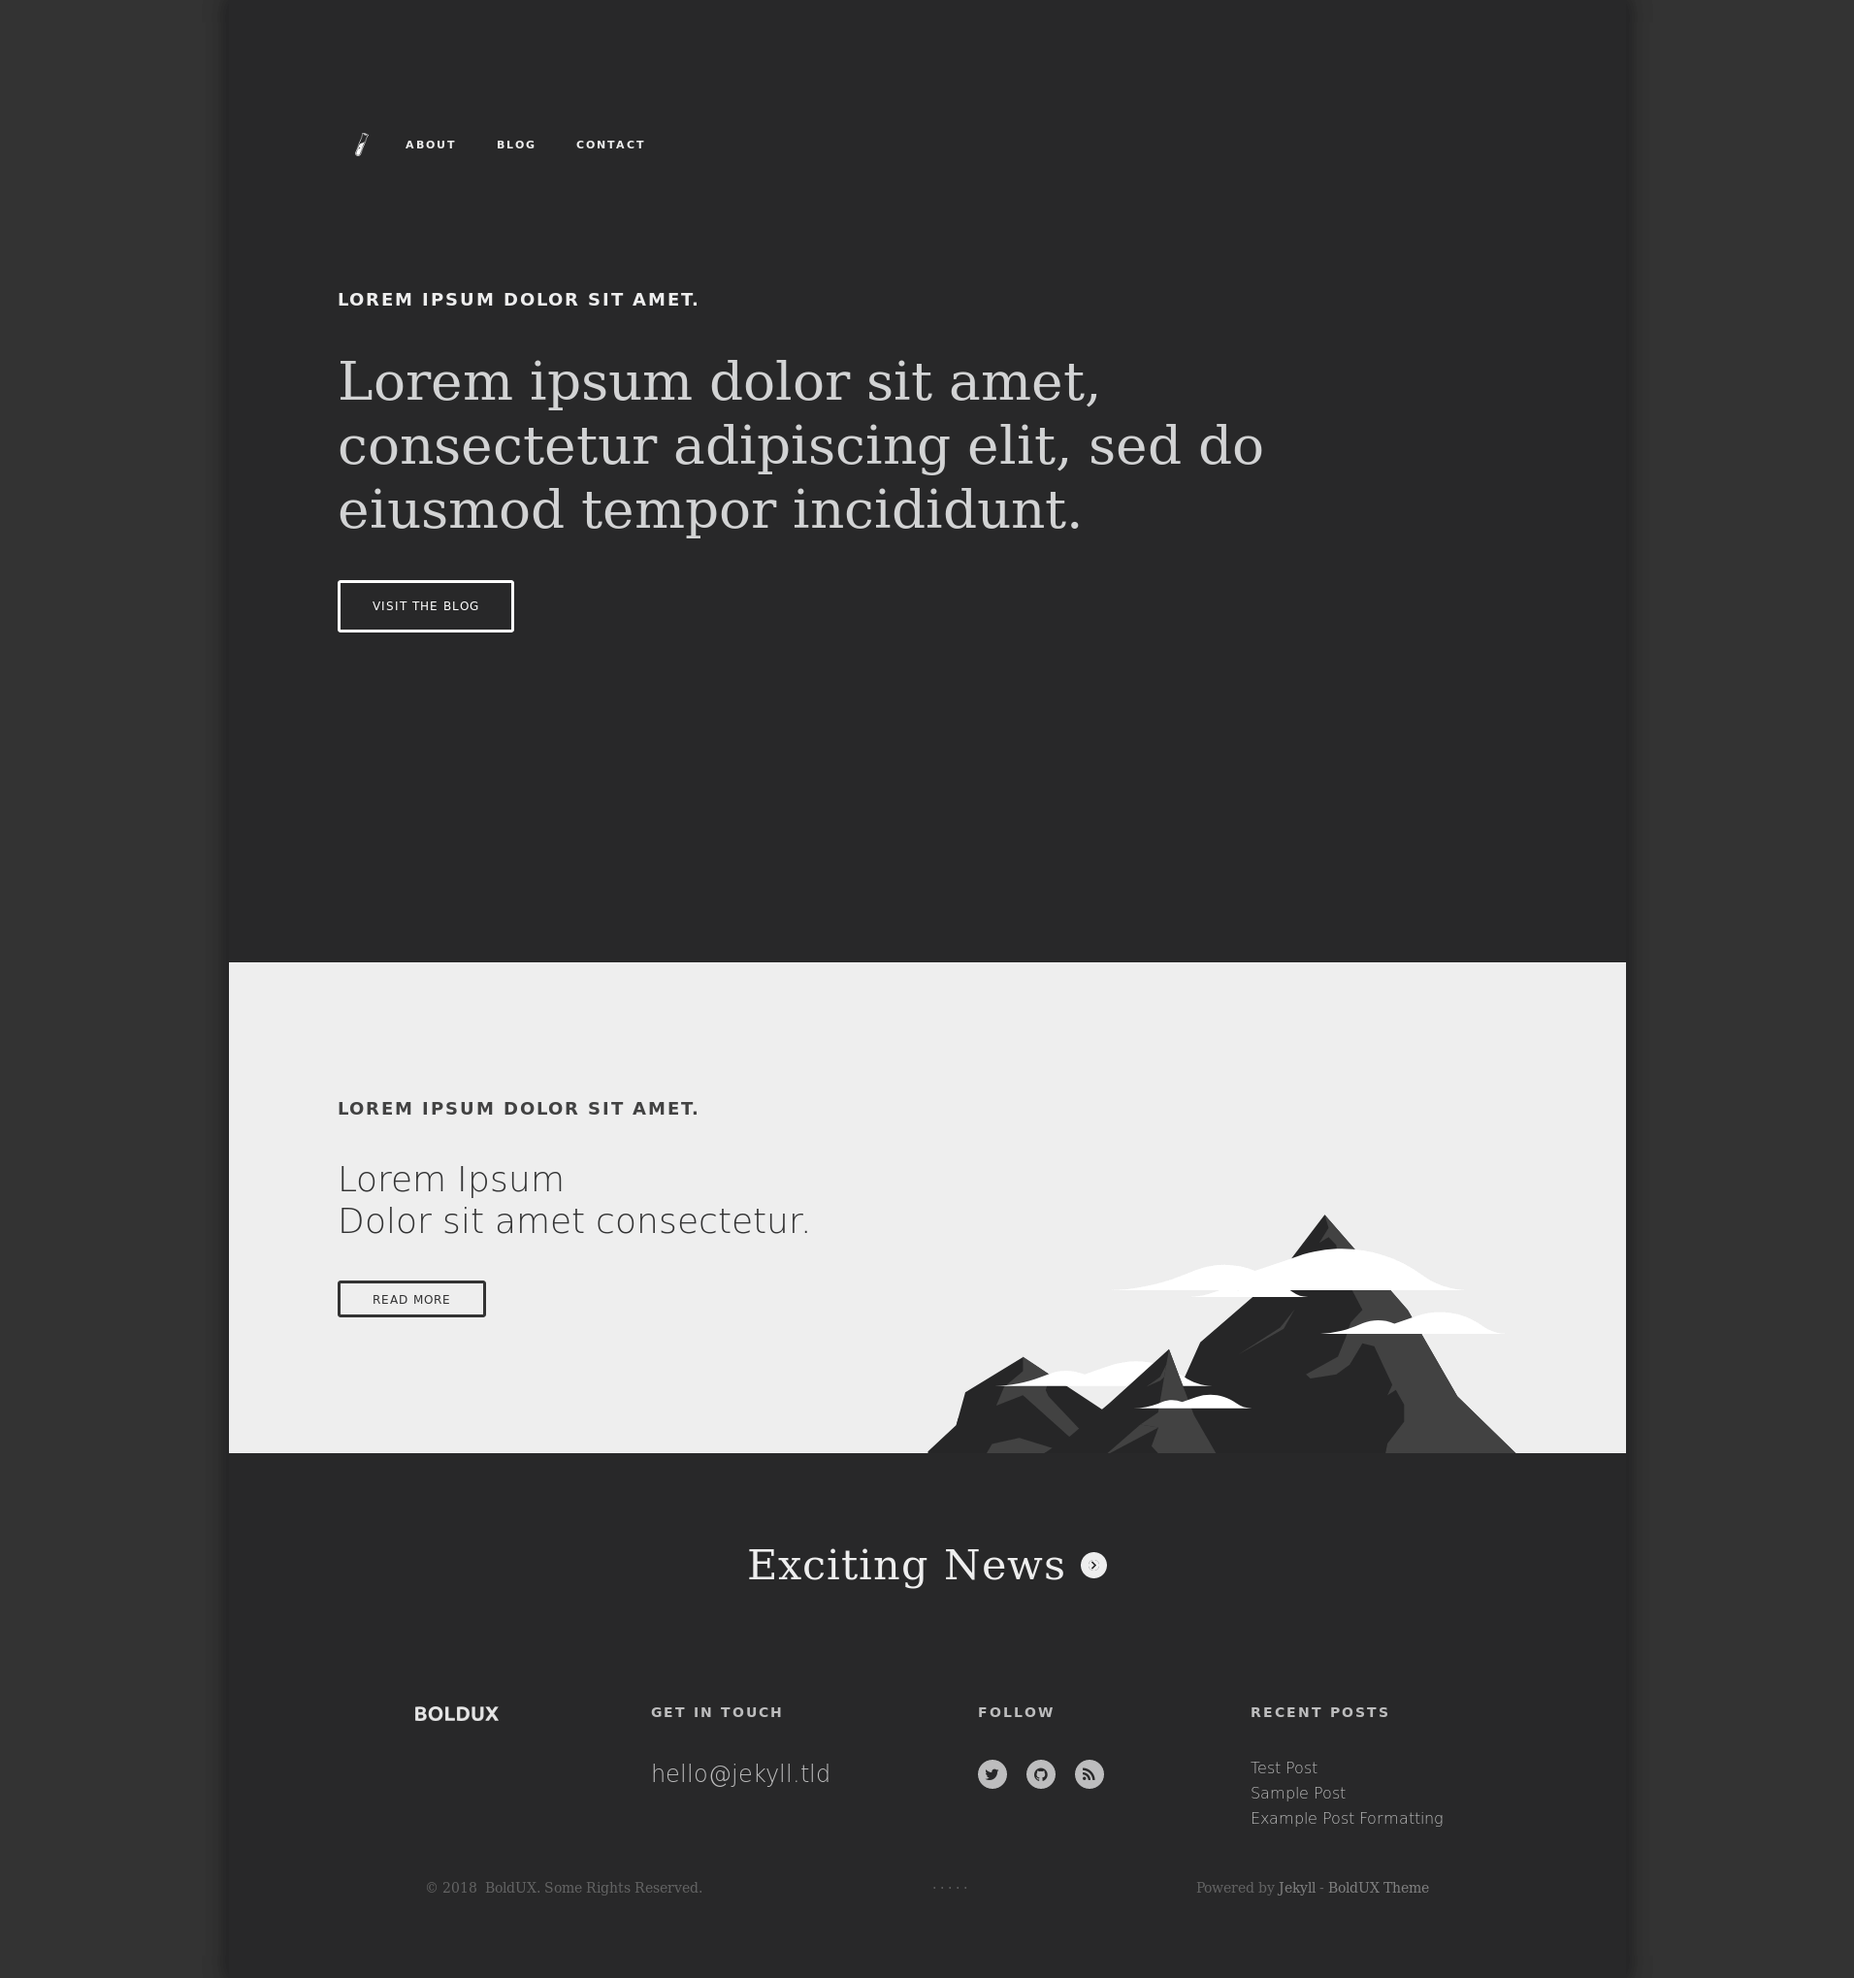
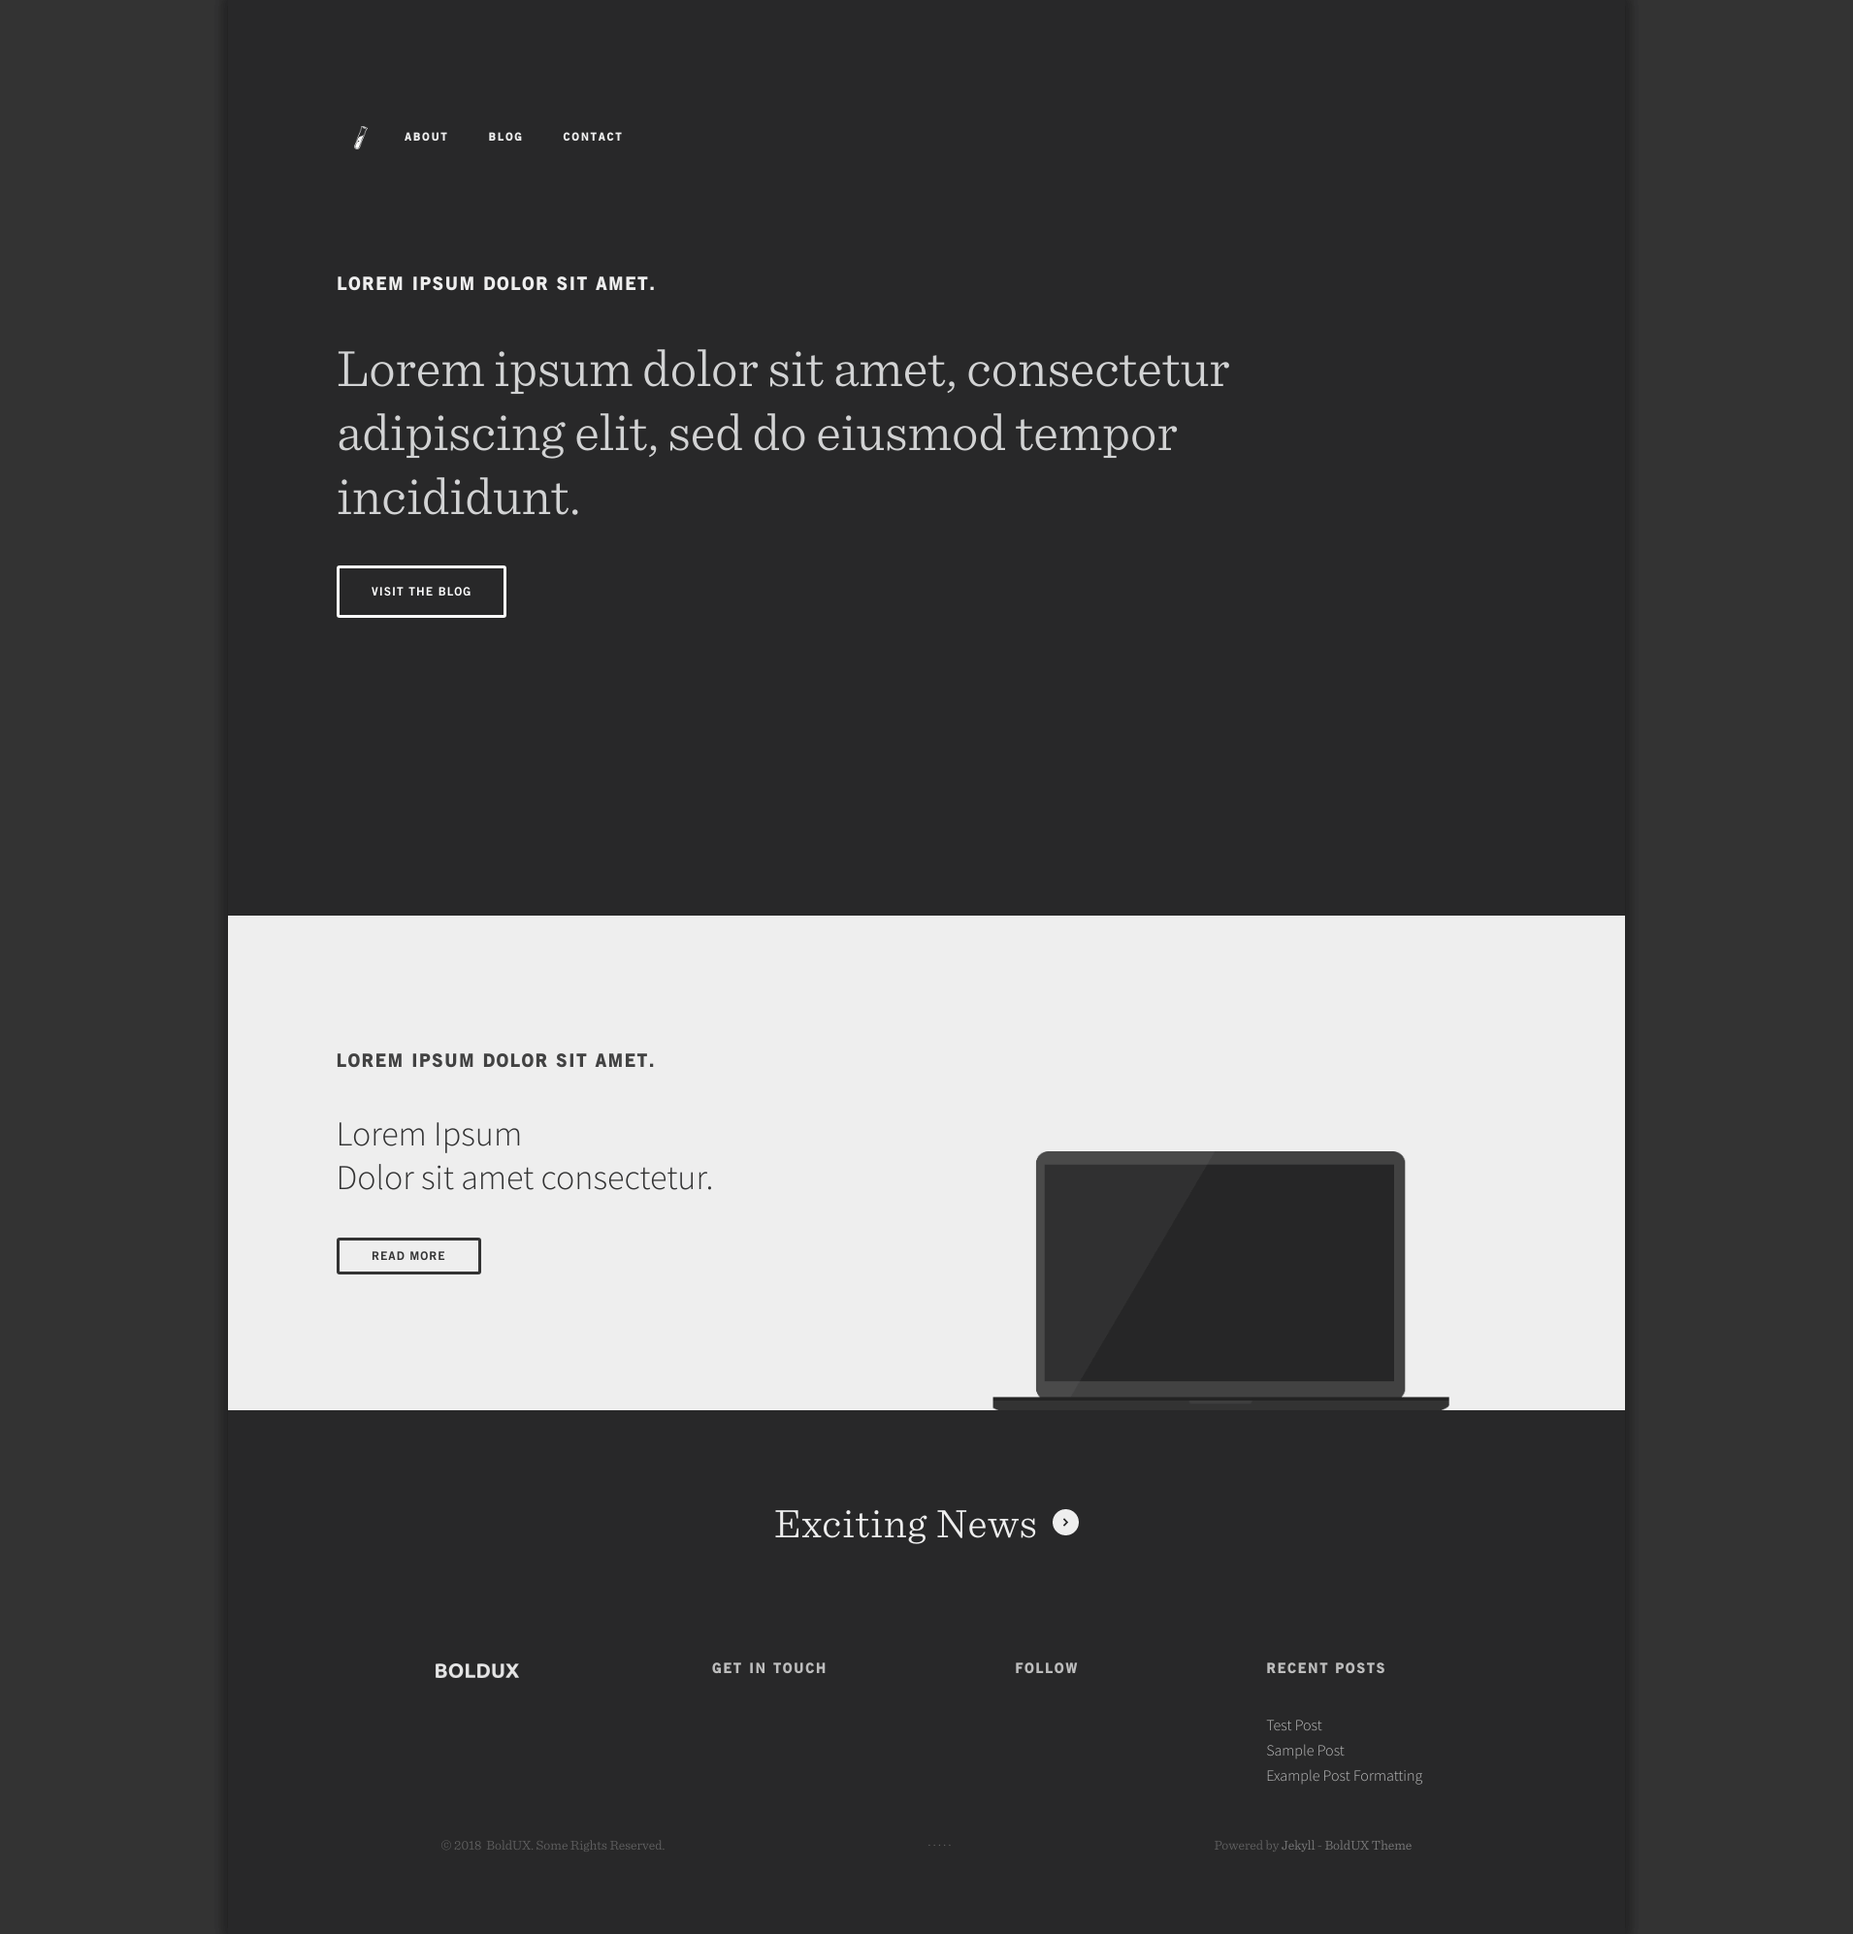
Added home-laptop image

diff --git a/_layouts/home.html b/_layouts/home.html
@@ -20,7 +20,7 @@
       </div>
     </header>
 
-    <section class="block home-mountain white-smoke">
+    <section class="block home-laptop white-smoke">
       <div class="container row">
         <div class="inner-block extra-padded column center half-md">
           <div class="inner-block-content gutter-right">
@@ -29,8 +29,8 @@
             <a href="{{ site.url }}/about" class="btn btn-box">Read More</a>
           </div>
         </div>
-        <div class="inner-block column align-bottom half-md home-mountain-image">
-          <img data-normal="/assets/img/sections/home/home-mountain.svg" alt="" class="inner-block-image contain">
+        <div class="inner-block column align-bottom half-md home-laptop-image">
+          <img data-normal="/assets/img/sections/home/home-laptop.png" alt="" class="inner-block-image contain">
         </div>
       </div>
     </section>

diff --git a/_sass/partials/sections/_home.scss b/_sass/partials/sections/_home.scss
@@ -1,5 +1,5 @@
-.home-mountain-image {
-  .home-mountain & {
+.home-laptop-image {
+  .home-laptop & {
     margin-bottom: -1px; // ensure image is flush with bottom
     max-width: 700px;
   }
